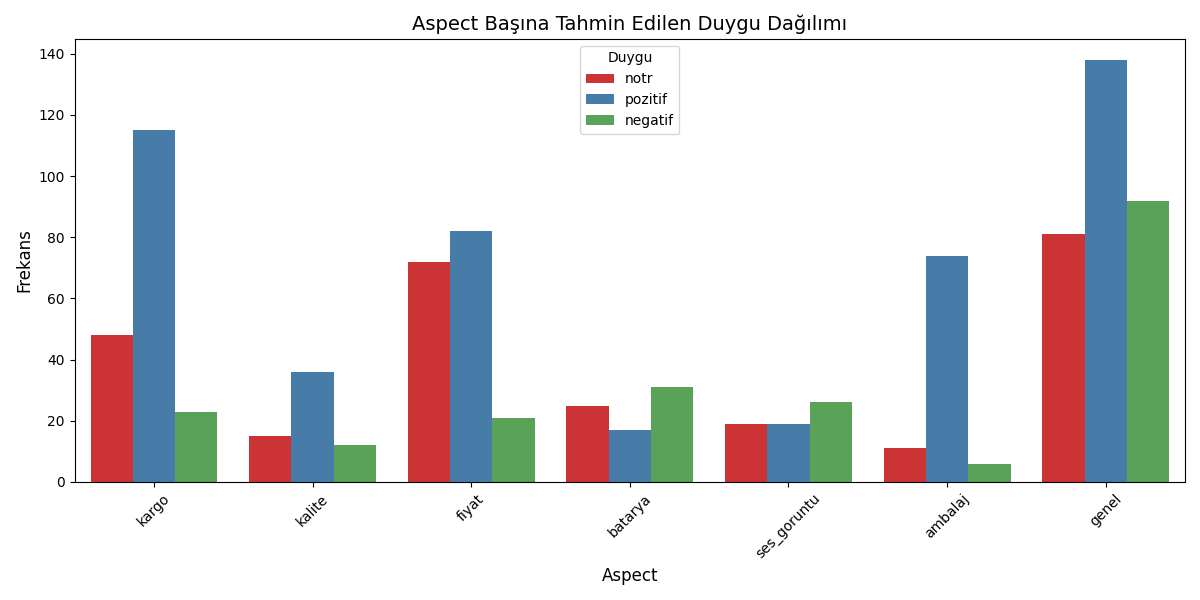
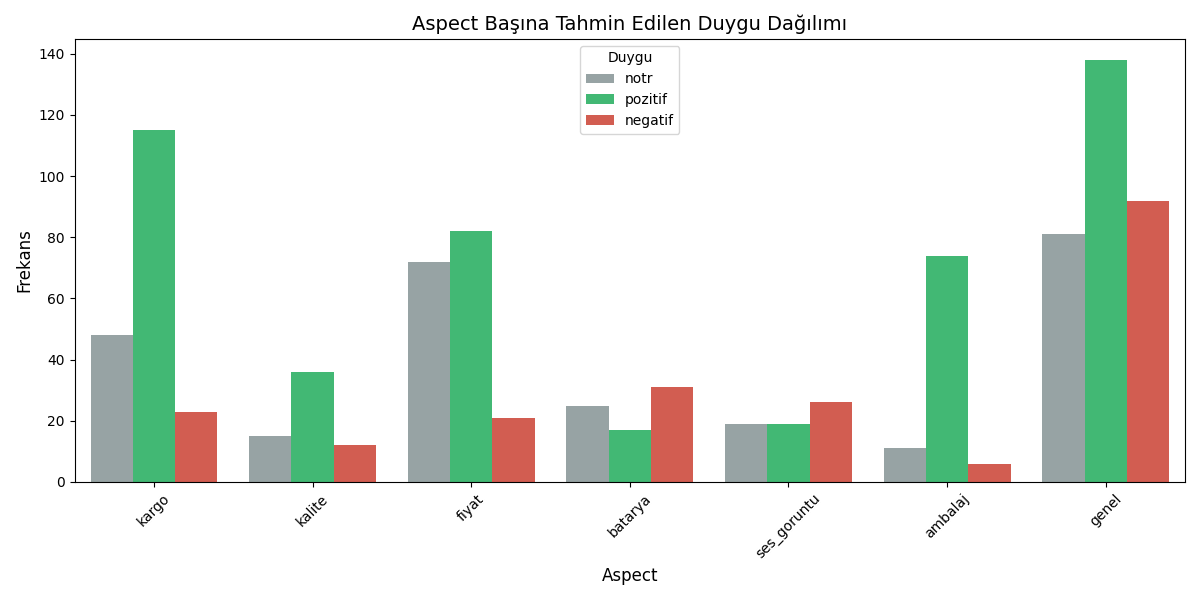
Grafik renkleri düzeltildi

Changed region(s): [[0.0617, 0.09, 0.9867, 0.81], [0.4933, 0.12, 0.5242, 0.21]]

diff --git a/src/degerlendir_yontem1.py b/src/degerlendir_yontem1.py
@@ -218,7 +218,8 @@ def degerlendir_ve_raporla(etiketli_yolu, cikis_klasoru, tahmin_kayit_yolu):
 
     # Grafik 5: Aspect Duygu Dağılımı (sonuc_aspect_sentiment_dagilimi.png)
     plt.figure(figsize=(12, 6))
-    sns.countplot(data=valid_preds, x='aspect', hue='tahmin', order=aspects, palette='Set1')
+    duygu_renkleri = {'pozitif': '#2ecc71', 'negatif': '#e74c3c', 'notr': '#95a5a6'}
+    sns.countplot(data=valid_preds, x='aspect', hue='tahmin', order=aspects, palette=duygu_renkleri)
     plt.title('Aspect Başına Tahmin Edilen Duygu Dağılımı', fontsize=14)
     plt.xlabel('Aspect', fontsize=12)
     plt.ylabel('Frekans', fontsize=12)
